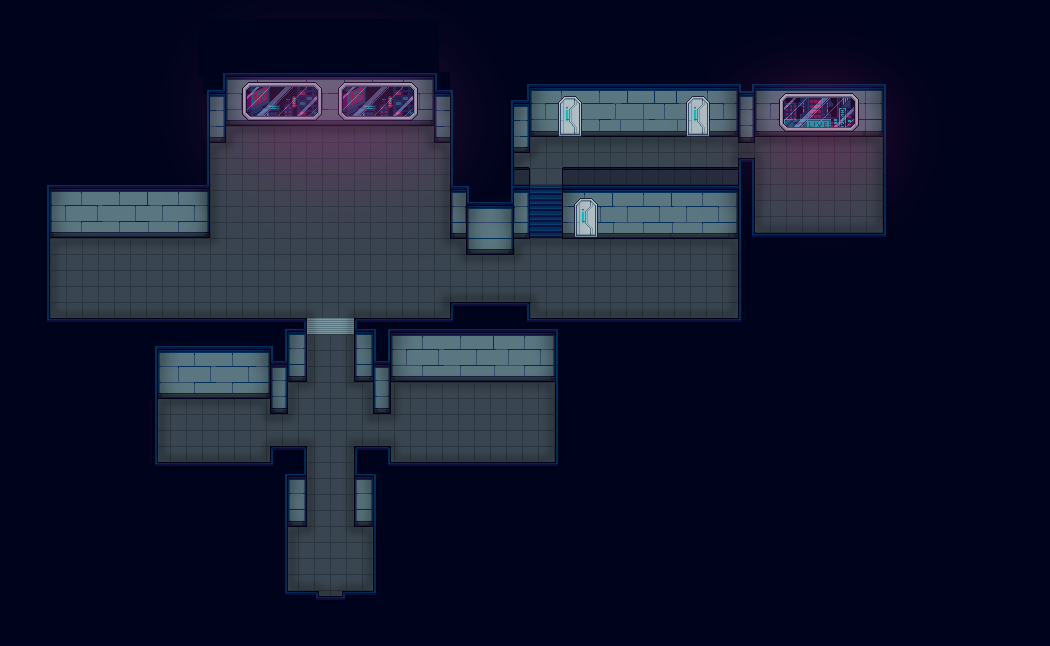
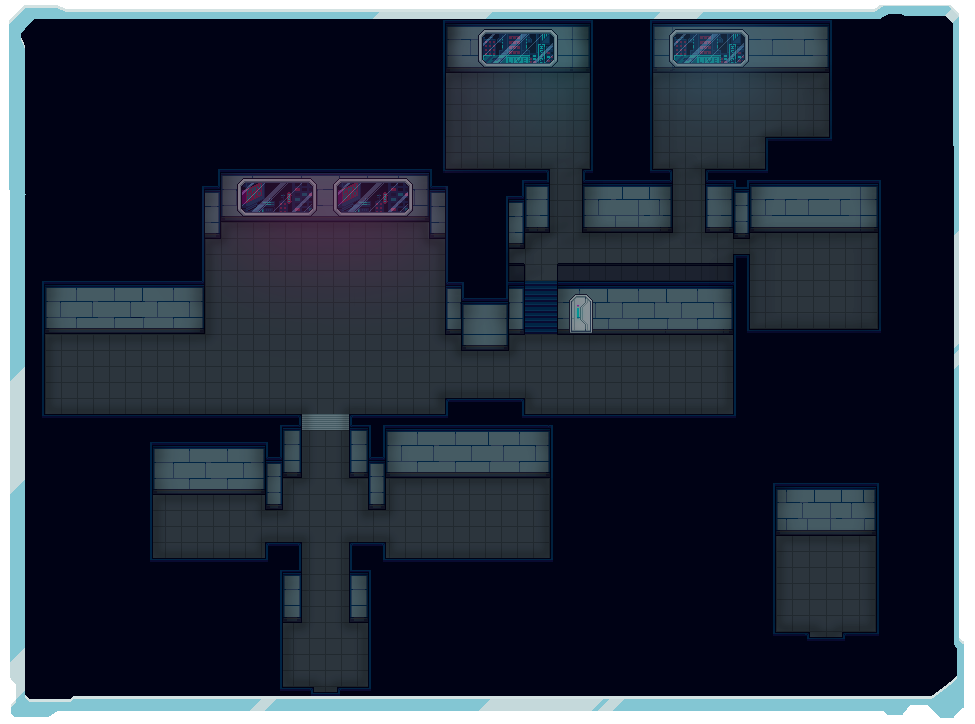
added new background images for estates
formatted and styled, need to add mobile

diff --git a/src/pages/cyberia-estates.html b/src/pages/cyberia-estates.html
@@ -130,7 +130,7 @@ Customization</div>
 
         
 <div class="cyberia-content">
-  <div id="first"><div class="flex-container-estate" id="apartment-description"><img id="estate-imgs" src="../assets/Cyberia/apartment-blueprints/small-realestate.png"/> </img>
+  <div id="first"><div class="flex-container" id="apartment-description"><img id="estate-imgs" src="../assets/Cyberia/apartment-blueprints/small-realestate.png"/> </img>
   </div>
   <div class="flex-container-estate" id="apartment-description"><p id="apt-description">               This apartment features a kitchen, bedroom area, bathroom and a spacious living area!               </p></div>
   </div>
@@ -140,13 +140,13 @@ Customization</div>
    <div class="flex-container-estate" id="apartment-description"><p id="apt-description">This apartment offers a premium living experience, 
      offering two floors with a total of five rooms. A bedroom, kitchen, bathroom, living area and one extra room for storage</p></div>
    </div>
-  <div id="third"><div class="flex-container-estate" id="apartment-description"><img id="estate-imgs" src="../assets/Cyberia/apartment-blueprints/large-realestate.png"/> 
+  <div id="third"><div class="flex-container" id="apartment-description"><img id="estate-imgs" src="../assets/Cyberia/apartment-blueprints/large-realestate.png"/> 
   </div>
   <div class="flex-container-estate" id="apartment-description"><p id="apt-description">This luxury apartment boasts a total of six rooms, offering a spacious yet comfortable living quarters. 
     Inside you will find the essential bedroom, kitchen, bathroom and living area. However, this apartment boasts an extra two rooms allowing for additional and unique customizations to be placed </p></div>
   </div>
   
-  <div id="fourth"><div class="flex-container-estate" id="apartment-description"><img id="estate-imgs" src="../assets/Cyberia/apartment-blueprints/penthouse-realestate.png"/> 
+  <div id="fourth"><div class="flex-container" id="apartment-description"><img id="estate-imgs" src="../assets/Cyberia/apartment-blueprints/penthouse-realestate.png"/> 
   
   </div>
   <div class="flex-container-estate" id="apartment-description"><p id="apt-description">The motherlode. This apartment has it all. Two floors, multiple rooms, garden roof access and much more.. Standing high above Cyberia, it acts as an icon of both power and wealth, however only a few penthouses were constructed within Cyberia.</p></div>

diff --git a/src/styles/cyberia-estates.css b/src/styles/cyberia-estates.css
@@ -42,8 +42,8 @@ width:100%;
 /* IMAGES */
 /* this one is for the apt sizes */
 img#estate-imgs{
-  border:1px solid var(--yellow);
- border-radius:20%;
+ 
+ 
   display: inline-block;
   width: 350px;
   height: 350px;
@@ -140,10 +140,20 @@ div.flex-container-pictures {
   background-image:none;
   background:transparent;
 }
-div#apartment-description {
+div.flex-container {
   display: inline-block;
   width:55%;
 background:initial;
+
+
+}
+div.flex-container-estate {
+  display: inline-block;
+  width:55%;
+  background:rgba(4, 4, 8, 0.55) ;
+  border:1px solid rgb(21, 21, 158)
+
+
 }
 /* layer of color over benefits section to make it match bg */
 div.opacity-layer {
